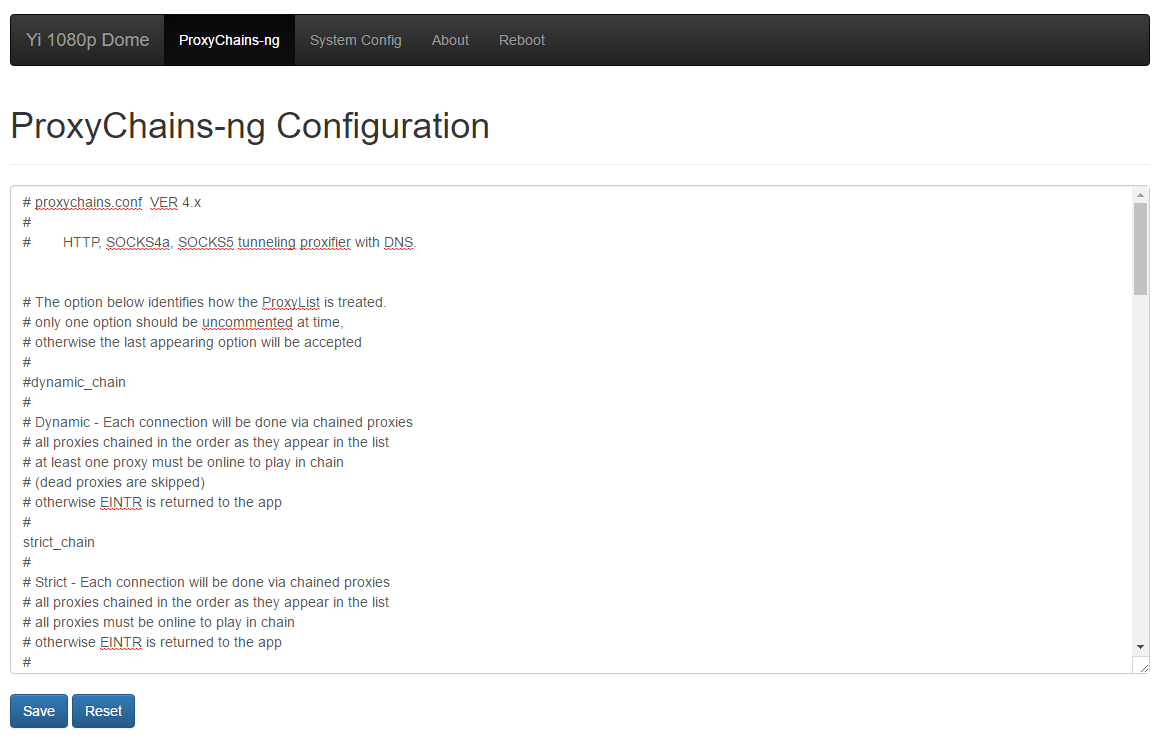
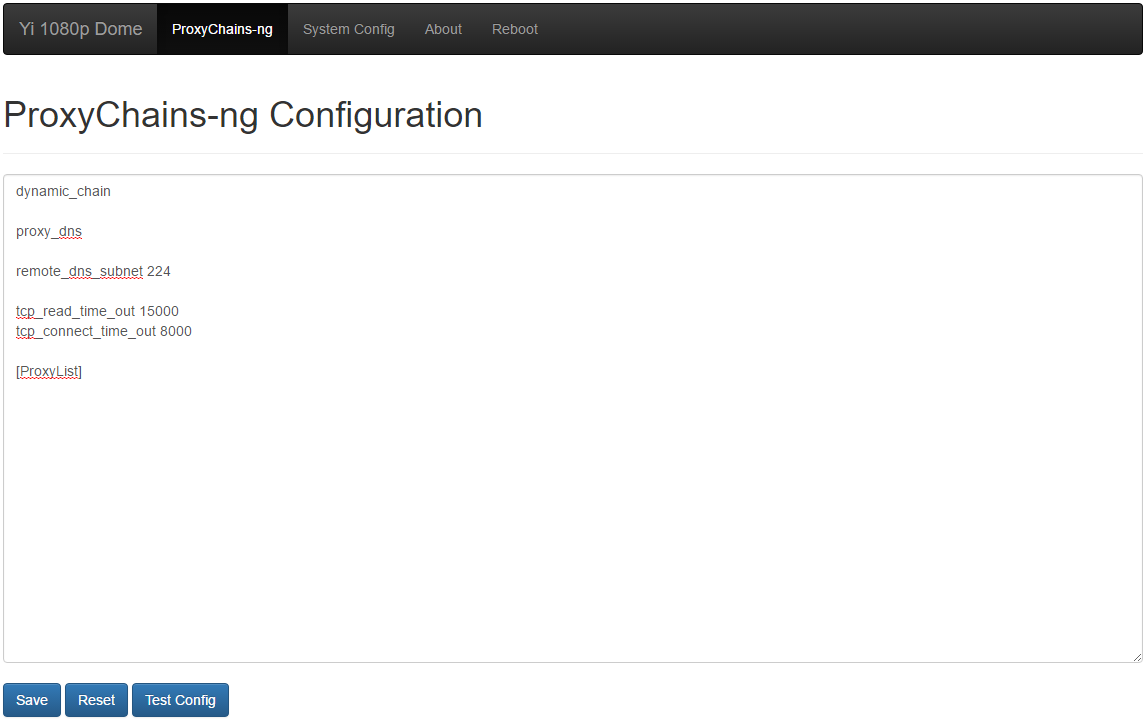
Added support for Yi Dome cameras. Simplified default ProxyChains-ng configuration. Added warning about the lack of SSL support in the ProxyChains-ng Test page.

diff --git a/README.md b/README.md
@@ -5,11 +5,25 @@ This project is a collection of config files, Makefiles and scripts to allow cus
 Currently this project supports:
 * Yi 1080p Dome
 * Yi 1080p Home
-
-However with community support, this firmware can be extended to support at least the following cameras as they are based on the same chipset:
 * Yi Dome
 
-![Alt text](yi-cam.png?raw=true "Yi Cameras")
+![Alt text](yi-cam.png?raw=true "Supported Yi Cameras")
+
+## Table of Contents
+
+- [Features](#features)
+- [Cameras that are Region Locked to Mainland China](#cameras-that-are-region-locked-to-mainland-china)
+- [Getting Started](#getting-started)
+    - [Prepare the microSD Card](#prepare-the-microsd-card)
+    - [Starting the Camera](#starting-the-camera)
+    - [Configuring the Camera](#configuring-the-camera)
+- [Using the Camera](#using-the-camera)
+    - [Telnet Server](#telnet-server)
+    - [FTP Server](#ftp-server)
+    - [Startup Shell Script](#startup-shell-script)
+    - [Which Version is Installed?](#which-version-is-installed)
+- [Development](#development)
+- [Acknowledgments](#acknowledgments)
 
 ## Features
 The supported cameras have the following features by default:
@@ -43,8 +57,9 @@ The memory card will contain:
 
 | Camera | rootfs partition | home partition | Remarks |
 | --- | --- | --- | --- |
-| **Yi 1080p Dome** | rootfs_h20 | home_h20 | The rootfs partition firmware update. |
-| **Yi 1080p Home** | rootfs_y20 | home_y20 | The home firmware firmware update. |
+| **Yi 1080p Dome** | rootfs_h20 | home_h20 | Firmware files required for the Yi 1080p Dome camera. |
+| **Yi 1080p Home** | rootfs_y20 | home_y20 | Firmware files required for the Yi 1080p Home camera. |
+| **Yi Dome** | rootfs_v201 | home_v201 | Firmware files required for the Yi Dome camera. |
 
 **_Note: Both the rootfs and home partitions must be upgraded on the camera. The additional features implemented in the home partition will not work unless the rootfs partition has also been upgraded._**
 
@@ -96,3 +111,4 @@ Special thanks to the following projects for their efforts on other Xiaomi camer
 **niclet** : https://github.com/niclet/yi-hack-v2
 
 **xmflsct** : https://github.com/xmflsct/yi-hack-1080p
+
